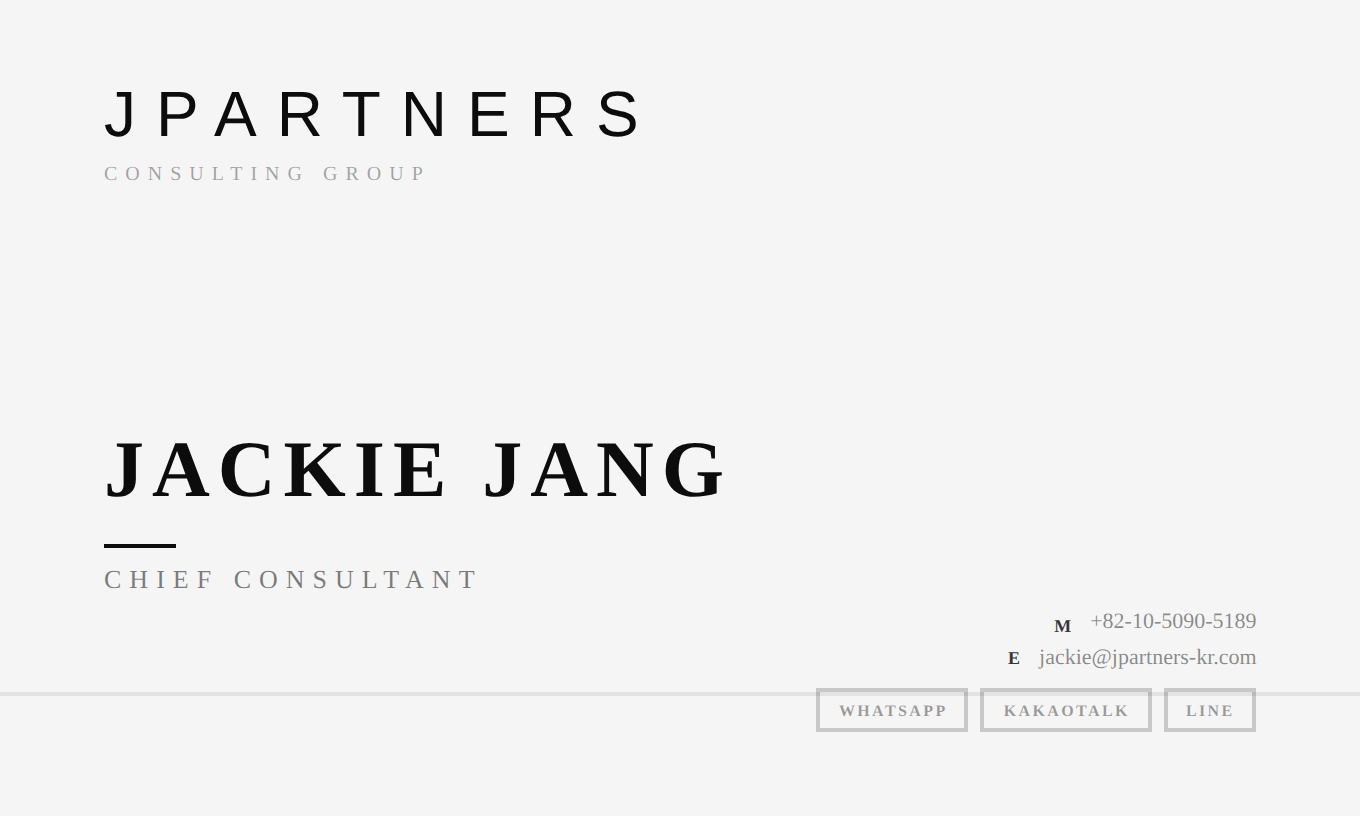
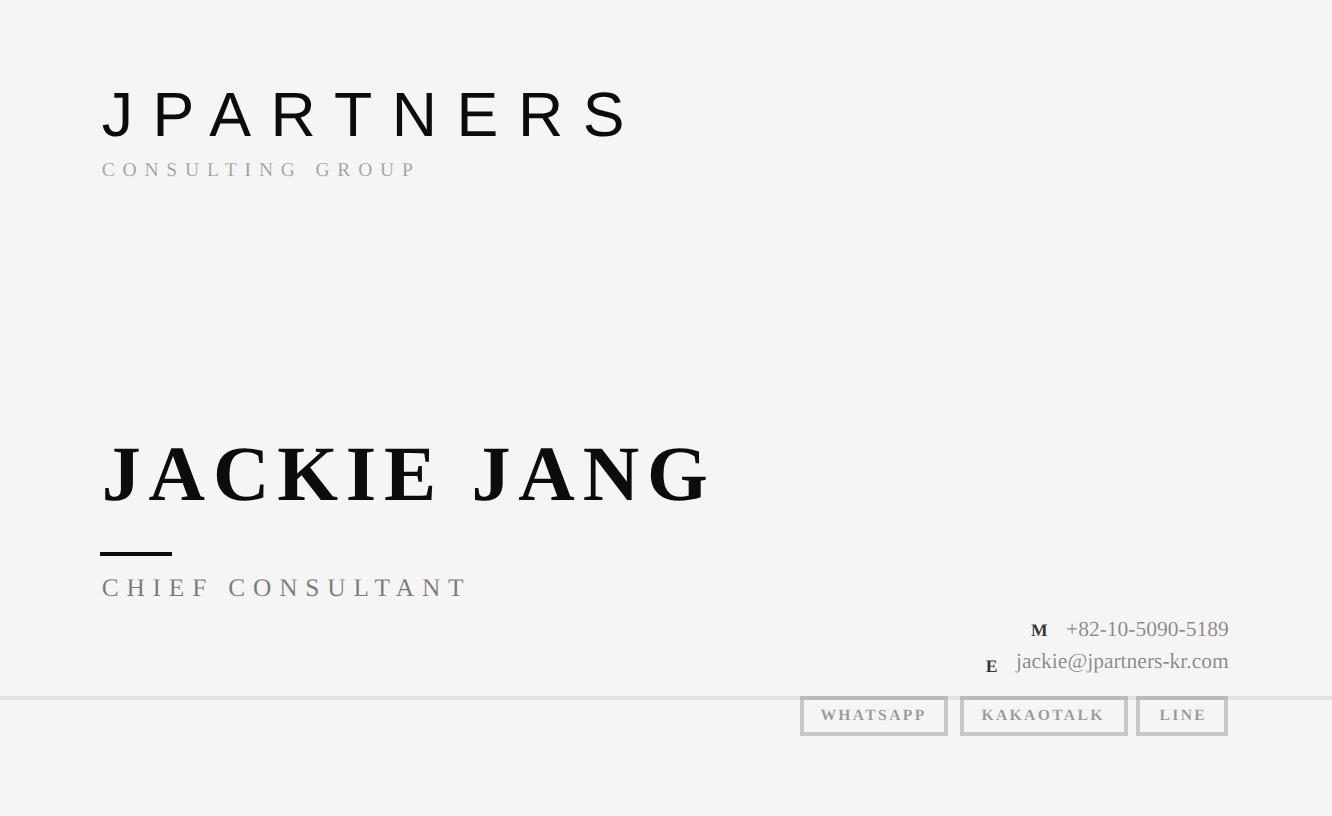
Resize business card from 90mm to 88mm × 54mm
https://claude.ai/code/session_0114MewGpx9V52DsqropceHJ

diff --git a/print.html b/print.html
@@ -6,17 +6,17 @@
   <link rel="preconnect" href="https://fonts.gstatic.com" crossorigin>
   <link href="https://fonts.googleapis.com/css2?family=Bebas+Neue&family=Montserrat:wght@300;400;600;700;800;900&family=Noto+Sans+KR:wght@300;400;500;700;900&display=swap" rel="stylesheet">
   <style>
-    @page { size: 90mm 54mm; margin: 0; }
+    @page { size: 88mm 54mm; margin: 0; }
 
     *, *::before, *::after { box-sizing: border-box; margin: 0; padding: 0; }
 
     html, body { background: transparent; }
 
-    /* --w: 90mm 고정 (인쇄용 실제 크기) */
+    /* --w: 88mm 고정 (인쇄용 실제 크기) */
     .card {
-      --w: 90mm;
-      width: 90mm;
-      height: calc(var(--w) * 408 / 680);
+      --w: 88mm;
+      width: 88mm;
+      height: 54mm;
       position: relative;
       overflow: hidden;
       break-after: page;

diff --git a/generate-card.js b/generate-card.js
@@ -1,8 +1,8 @@
 const { chromium } = require('/opt/node22/lib/node_modules/playwright');
 const path = require('path');
 
-// 90mm × 54mm at 96 DPI (browser default)
-const W = Math.round(90 / 25.4 * 96);   // 340px
+// 88mm × 54mm at 96 DPI (browser default)
+const W = Math.round(88 / 25.4 * 96);   // 333px
 const H = Math.round(54 / 25.4 * 96);   // 204px
 const DPI_SCALE = 4;                     // 384 DPI output (> 300 DPI 인쇄 기준)
 
@@ -20,7 +20,7 @@ const FILE = `file://${path.resolve(__dirname, 'print.html')}`;
     await page.pdf({
       path: path.join(__dirname, 'JPARTNERS_BusinessCard.pdf'),
       printBackground: true,
-      width: '90mm',
+      width: '88mm',
       height: '54mm',
     });
     await page.close();
